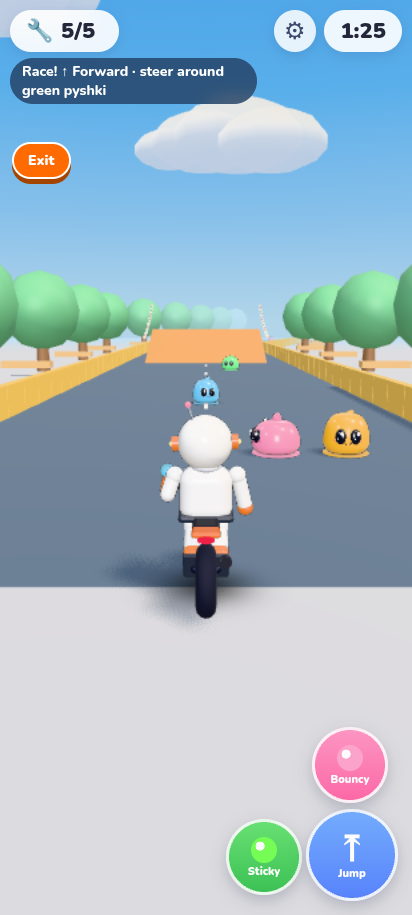
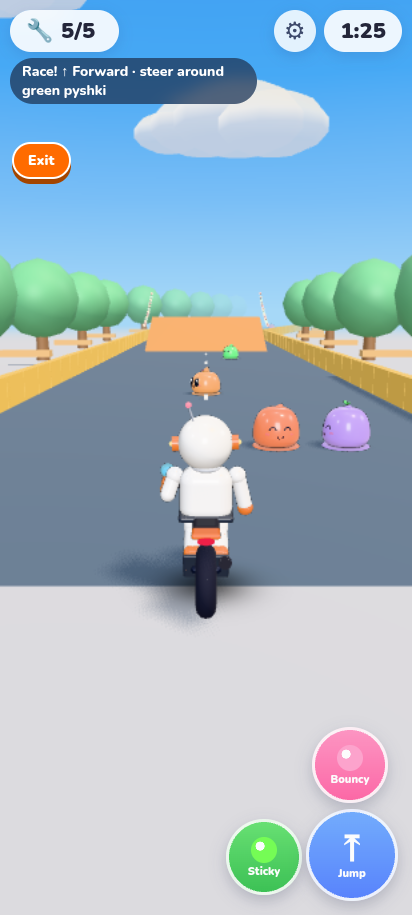
Saturated city sky (untonemapped dome), control tip as brief pill above buttons

diff --git a/src/style.css b/src/style.css
@@ -869,10 +869,10 @@ button {
 }
 
 /* Brief control reminder; mission objectives remain available in the HUD. */
-.playing .controls-tip { animation: r3-tip 4.5s forwards; }
+.playing .controls-tip { animation: r3-tip 3.5s forwards; }
 @keyframes r3-tip { 0%, 88% { opacity: 1; } 100% { opacity: 0; visibility: hidden; } }
 
-.controls-tip { position: absolute; top: 125px; left: 20px; right: 20px; text-align: center; font-size: 12px; color: #34455b; pointer-events: none; }
+.controls-tip { position: absolute; top: auto; bottom: calc(max(18px, env(safe-area-inset-bottom)) + 250px); left: 50%; right: auto; transform: translateX(-50%); max-width: calc(100vw - 40px); text-align: center; font-size: 12px; font-weight: 700; color: #fff; background: rgba(29, 53, 87, 0.7); padding: 4px 12px; border-radius: 999px; pointer-events: none; }
 
 /* Race controls stay outside the road sightline. */
 .ride-btn { left: 14px; bottom: 24px; transform: none; font-size: 14px; padding: 7px 14px; border-width: 2px; animation: none; }

diff --git a/src/render/env.ts b/src/render/env.ts
@@ -40,7 +40,7 @@ export type SkyTheme = 'city' | 'harbor';
 export function skyPalette(theme: SkyTheme = 'city') {
   return theme === 'harbor'
     ? { top: 0x1f7fe6, mid: 0x5cc2f5, horizon: 0xbfe9f2, sun: 0xfff1c4 }
-    : { top: 0x2a7fea, mid: 0x6cbdf7, horizon: 0xbfe2f6, sun: 0xfff3d6 };
+    : { top: 0x1c72e6, mid: 0x47aaf5, horizon: 0xa6d8f7, sun: 0xfff3d6 };
 }
 
 /** Direction the sun light comes from (matches the shadow-casting light offset in the view). */
@@ -70,7 +70,7 @@ export function buildSky(theme: SkyTheme = 'city'): THREE.Group {
     col.set([c.r, c.g, c.b], i * 3);
   }
   g.setAttribute('color', new THREE.BufferAttribute(col, 3));
-  const dome = new THREE.Mesh(g, new THREE.MeshBasicMaterial({ vertexColors: true, side: THREE.BackSide, fog: false, depthWrite: false }));
+  const dome = new THREE.Mesh(g, new THREE.MeshBasicMaterial({ vertexColors: true, side: THREE.BackSide, fog: false, depthWrite: false, toneMapped: theme === 'harbor' }));
   dome.renderOrder = -10;
   root.add(dome);
 
